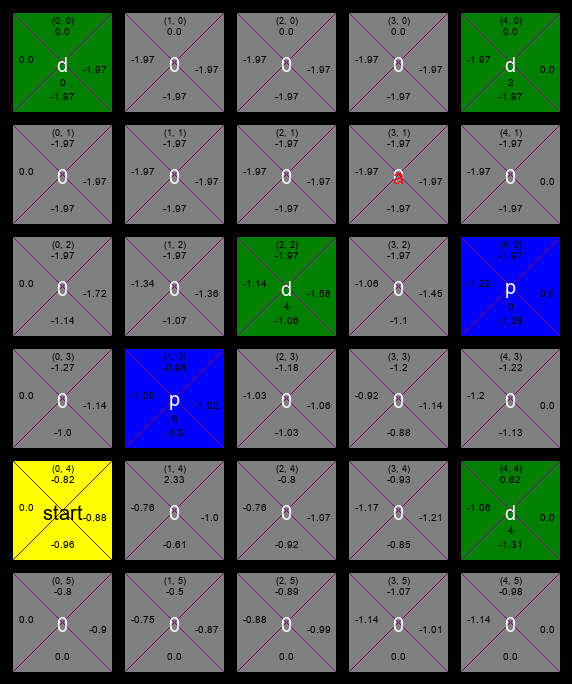
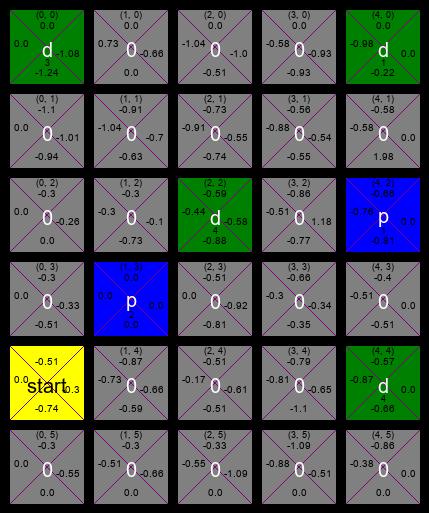
Add agent monitor

diff --git a/main.py b/main.py
@@ -5,6 +5,7 @@ from functions import *
 from vis_funcs import * 
 from Visualize.visualize import Visualize as vl
 from WorldProcessing.readWorld import ReadWorld
+import cv2 as cv
 
 FIRST_STEPS = 500
 SECOND_STEPS = 5500
@@ -24,6 +25,8 @@ has_block = False
 done = False
 h, w, world = ReadWorld().fill_world('testworld.txt')
 
+vis_objs = dict()
+
 # states, given x and y, returns state index for q_table
 # get index with states[x][y]
 states = getStates(w, h)
@@ -42,16 +45,28 @@ def main():
     global world
 
     # policy = "PRANDOM"
-    policy = "PEXPLOIT"
-    # policy = "PGREEDY"
+    # policy = "PEXPLOIT"
+    policy = "PGREEDY"
 
     # visualizing world in starting state
-    world_vl = vl()
-    world_vl.visualize_gen(h, w, world, 'world')
-    initWorld(h, w, world, world_vl, start_x, start_y)
+    vis_objs['world_vl'] = vl('world')
+    vis_objs['world_vl'].visualize_gen(h, w)
+    initWorld(h, w, world, vis_objs['world_vl'], start_x, start_y)
 
     # always use PRANDOM for first 500 steps
     steps1 = doSteps(FIRST_STEPS, 'PRANDOM')
+
+    vis_objs['q_table_no_block'] = vl('q_table_no_block')
+    vis_objs['q_table_no_block'].visualize_gen(h, w)
+    initQTableWorld(h, w, world, vis_objs['q_table_no_block'], start_x, start_y)
+    updateQTableWorld(h, w, world, vis_objs['q_table_no_block'], x, y)
+    fillQValues(h, w, q_table, vis_objs['q_table_no_block'], False)
+
+    vis_objs['q_table_with_block'] = vl('q_table_with_block')
+    vis_objs['q_table_with_block'].visualize_gen(h, w)
+    initQTableWorld(h, w, world, vis_objs['q_table_with_block'], start_x, start_y)
+    updateQTableWorld(h, w, world, vis_objs['q_table_with_block'], x, y)
+    fillQValues(h, w, q_table, vis_objs['q_table_with_block'], True)
 
     # print("q_table after 500 steps")
     # print(q_table)
@@ -65,19 +80,9 @@ def main():
     print(q_table)
     print("\ncomplete", steps1 + steps2, "steps")
 
-    updateWorld(h, w, world, world_vl)
+    updateWorld(h, w, world, vis_objs['world_vl'])
 
-    q_table_with_block = vl()
-    q_table_with_block.visualize_gen(h, w, world, 'q_table_with_block')
-    initQTableWorld(h, w, world, q_table_with_block, start_x, start_y)
-    updateQTableWorld(h, w, world, q_table_with_block, x, y)
-    fillQValues(h, w, q_table, q_table_with_block, True)
-
-    q_table_no_block = vl()
-    q_table_no_block.visualize_gen(h, w, world, 'q_table_no_block')
-    initQTableWorld(h, w, world, q_table_no_block, start_x, start_y)
-    updateQTableWorld(h, w, world, q_table_no_block, x, y)
-    fillQValues(h, w, q_table, q_table_no_block, False)
+    print(vis_objs['world_vl'], vis_objs['q_table_no_block'], vis_objs['q_table_with_block'])
 
 
 def applyAction(action):
@@ -104,7 +109,7 @@ def bestValidAction(state, actions):
     for action in actions:
         val = q_table[state][actionToIndex(action)]
         # if two actions have the same val, pick a random one
-        if (val == max_val): 
+        if (val == max_val):
             # 50% chance of not changing action
             if (random.uniform(0, 1) > 0.5): continue
             bestAction = action
@@ -123,7 +128,7 @@ def maxQ(state, actions):
 def exploitAction(state, valid_actions, epsilon):
     if (valid_actions[0] == "d"): return ["d", 13]
     if (valid_actions[0] == "p"): return ["p", 13]
-    if (random.uniform(0, 1) > epsilon): 
+    if (random.uniform(0, 1) > epsilon):
         return chooseRandomAction(valid_actions)
     return [bestValidAction(state, valid_actions), -1]
 
@@ -147,6 +152,7 @@ def doSteps(steps, policy):
 
         action = ''
         reward = -1
+        print(valid_actions)
 
         if (policy == 'PRANDOM'):
             action, reward = chooseRandomAction(valid_actions)
@@ -154,7 +160,7 @@ def doSteps(steps, policy):
             action, reward = exploitAction(state, valid_actions, epsilon)
         elif (policy == 'PGREEDY'):
             action, reward = greedyAction(state, valid_actions)
-
+        print(action)
         # print("action:", action)
 
         # has_block gets updated here
@@ -162,12 +168,18 @@ def doSteps(steps, policy):
 
         next_x, next_y = getNextCoords(action, world, x, y)
         if (coordsNotValid(next_x, next_y, w, h)): break
-        next_valid_actions = getValidActions(world, next_x, next_y, has_block)        
+        next_valid_actions = getValidActions(world, next_x, next_y, has_block)
         next_state = states[next_y][next_x]
         if (has_block): next_state += q_offset
 
-        # update qtable  
-        q_table[state][actionToIndex(action)] = round((1-alpha)*Q(state, action) + alpha*(reward + gamma*maxQ(next_state, next_valid_actions)), 2)
+        # update qtable
+        q_table[state][actionToIndex(action)] = \
+            round((1-alpha)*Q(state, action) + alpha*(reward + gamma*maxQ(next_state, next_valid_actions)), 2)
+
+        # keep track of prev state for step visualize part
+
+        prev_x = x
+        prev_y = y
 
         # 'move' to the next state
         x = next_x
@@ -188,16 +200,43 @@ def doSteps(steps, policy):
             print('q_table after:')
             print(q_table)
             print('-------------------------------------------------')
+            # reset episode steps
             count_steps = 1
+            # count episode
             episode += 1
             # break
 
         # break if the next x or y is not valid (should never happen)
         if (coordsNotValid(x, y, w, h)): break
+
+        # count episode steps
         count_steps += 1
-        # print('\n'*5)
-        # print(q_table)
-        # time.sleep(1)
+
+        # visualize each step
+        if steps != 500:
+            print('\n' * 5)
+            # print(q_table)
+            if has_block:
+                updateCell(h, w, q_table, world, vis_objs['q_table_no_block'],
+                           has_block, prev_x, prev_y, start_x, start_y)
+                updateCell(h, w, q_table, world, vis_objs['q_table_with_block'],
+                           has_block, prev_x, prev_y, start_x, start_y)
+                putAgent(h, w, q_table, world, vis_objs['q_table_with_block'], has_block, x, y, start_x, start_y)
+                img_b = cv.imread('q_table_with_block.png')
+                cv.destroyWindow('With no block')
+                cv.imshow('With block', img_b)
+                cv.waitKey(0)
+            else:
+                updateCell(h, w, q_table, world, vis_objs['q_table_with_block'],
+                           has_block, prev_x, prev_y, start_x, start_y)
+                updateCell(h, w, q_table, world, vis_objs['q_table_no_block'],
+                           has_block, prev_x, prev_y, start_x, start_y)
+                putAgent(h, w, q_table, world, vis_objs['q_table_no_block'], has_block, x, y, start_x, start_y)
+                img_nb = cv.imread('q_table_no_block.png')
+                cv.destroyWindow('With block')
+                cv.imshow('With no block', img_nb)
+                cv.waitKey(0)
+
     if step + 1 == SECOND_STEPS:
         print('episode ', episode, '| agent takes:', count_steps)
     return step+1

diff --git a/Visualize/visualize.py b/Visualize/visualize.py
@@ -1,59 +1,57 @@
 from PIL import Image, ImageDraw, ImageFont
-from WorldProcessing.readWorld import ReadWorld
 
-gap = 12
-block_size = 100
+gap = 9
+block_size = 75
 font_size = 20
-global file_name
+
 
 class Visualize:
-    def __init__(self):
-        pass
+    def __init__(self, name):
+        self.name = name
 
     # generate world image
-    def visualize_gen(self, no_block_h, no_block_w, world, name):
-        global file_name
-        file_name = name
-        img_h = no_block_h * (block_size + gap) + gap
-        img_w = no_block_w * (block_size + gap) + gap
+    def visualize_gen(self, num_cell_h, num_cell_w):
+        f_name = self.name
+        img_h = num_cell_h * (block_size + gap) + gap
+        img_w = num_cell_w * (block_size + gap) + gap
 
         img = Image.new('RGB', (img_w, img_h), color='gray')
         draw = ImageDraw.Draw(img)
 
         # row divider
-        for r in range(no_block_h + 1):
+        for r in range(num_cell_h + 1):
             start_p_r = (block_size + gap) * r + gap / 2
             draw.line([(0, start_p_r), (img_w, start_p_r)], fill=0, width=gap + 1)
         # col divider
-        for r in range(no_block_w + 1):
+        for r in range(num_cell_w + 1):
             start_p_c = (block_size + gap) * r + gap / 2
             draw.line([(start_p_c, 0), (start_p_c, img_h)], fill=0, width=gap + 1)
 
-        img.save('%s.png' % file_name)
+        img.save('%s.png' % f_name)
         print('Done initialize visual')
 
     def fill_block(self, coor=(0, 0), color='white'):
-        global file_name
+        f_name = self.name
         x = coor[0]
         y = coor[1]
         start_pixel_x = gap + x * (block_size + gap)
         start_pixel_y = gap + y * (block_size + gap)
-        with Image.open('%s.png' % file_name) as img:
+        with Image.open('%s.png' % f_name) as img:
             draw = ImageDraw.Draw(img)
             draw.rectangle((start_pixel_x + 1, start_pixel_y + 1,
                             start_pixel_x + block_size - 0.5, start_pixel_y + block_size - 0.5),
                            fill=color)
-            img.save('%s.png' % file_name)
+            img.save('%s.png' % f_name)
 
     def write_block(self, coor=(0, 0), txt='text', t_color='white',
                     pos='c', font_s=font_size, offset_u=0, offset_d=0, offset_l=0, offset_r=0):
-        global file_name
+        f_name = self.name
         x = coor[0]
         y = coor[1]
         start_pixel_x = gap + x * (block_size + gap)
         start_pixel_y = gap + y * (block_size + gap)
         font = ImageFont.truetype('arial.ttf', font_s)
-        with Image.open('%s.png' % file_name) as img:
+        with Image.open('%s.png' % f_name) as img:
             draw = ImageDraw.Draw(img)
             text_w, text_h = draw.textsize(txt, font)
             if pos == 'n':
@@ -72,18 +70,18 @@ class Visualize:
                 start_pixel_x += (block_size - text_w) / 2 + offset_r - offset_l
                 start_pixel_y += (block_size - text_h) / 2 - offset_u + offset_d
             draw.text((start_pixel_x + 1, start_pixel_y + 1), txt, fill=t_color, font=font)
-            img.save('%s.png' % file_name)
+            img.save('%s.png' % f_name)
 
     def put_x(self, coor=(0, 0), color='white'):
-        global file_name
+        f_name = self.name
         x = coor[0]
         y = coor[1]
         start_pixel_x = gap + x * (block_size + gap)
         start_pixel_y = gap + y * (block_size + gap)
-        with Image.open('%s.png' % file_name) as img:
+        with Image.open('%s.png' % f_name) as img:
             draw = ImageDraw.Draw(img)
             draw.line([(start_pixel_x + 1, start_pixel_y + 1),
-                       (start_pixel_x + 99, start_pixel_y + 99)], fill=color, width=0)
-            draw.line([(start_pixel_x + 1, start_pixel_y + 99),
-                       (start_pixel_x + 99, start_pixel_y + 1)], fill=color, width=0)
-        img.save('%s.png' % file_name)
+                       (start_pixel_x + block_size-1, start_pixel_y + block_size-1)], fill=color, width=0)
+            draw.line([(start_pixel_x + 1, start_pixel_y + block_size-1),
+                       (start_pixel_x + block_size-1, start_pixel_y + 1)], fill=color, width=0)
+        img.save('%s.png' % f_name)

diff --git a/vis_funcs.py b/vis_funcs.py
@@ -41,8 +41,7 @@ def updateQTableWorld(h, w, world, world_vl, x, y):
         for c in range(w):
             if world[(c, r)]['action'] == 'd' or world[(c, r)]['action'] == 'p':
                 world_vl.write_block(world[(c, r)]['coor'], str(world[(c, r)]['no_of_blocks']), 'black',
-                                     pos='s', font_s=10, offset_u=14)
-    world_vl.write_block(world[(x, y)]['coor'], 'a', 'red')
+                                     pos='s', font_s=9, offset_u=10)
 
 
 def fillQValues(h, w, q_table, world_vl, has_block):
@@ -56,6 +55,36 @@ def fillQValues(h, w, q_table, world_vl, has_block):
             for i, a in enumerate(action):
                 world_vl.write_block((r, c), str(q_table[state][i]), 'black',
                                      pos=a, font_s=10)
+
+
+def putAgent(h, w, q_table, world, world_vl, has_block, x, y, start_x, start_y):
+    updateCell(h, w, q_table, world, world_vl, has_block, x, y, start_x, start_y)
+    world_vl.write_block(world[(x, y)]['coor'], 'a', 'red')
+
+def updateCell(h, w, q_table, world, world_vl, has_block, prev_x, prev_y, start_x, start_y):
+    action = ['n', 's', 'e', 'w']
+    q_offset = 0
+    world_vl.fill_block(world[(prev_x, prev_y)]['coor'], 'gray')
+    if world[(prev_x, prev_y)]['action'] == 'd': world_vl.fill_block(world[(prev_x, prev_y)]['coor'], 'green')
+    if world[(prev_x, prev_y)]['action'] == 'p': world_vl.fill_block(world[(prev_x, prev_y)]['coor'], 'blue')
+    if (prev_y == start_y and prev_x == start_x):
+        world_vl.fill_block(world[(prev_x, prev_y)]['coor'], 'yellow')
+        world_vl.put_x((prev_x, prev_y), 'purple')
+        world_vl.write_block(world[(prev_x, prev_y)]['coor'], 'start', 'black')
+    else:
+        world_vl.put_x((prev_x, prev_y), 'purple')
+        world_vl.write_block(world[(prev_x, prev_y)]['coor'], world[(prev_x, prev_y)]['action'], 'white')
+        world_vl.write_block(world[(prev_x, prev_y)]['coor'],
+                             str(world[(prev_x, prev_y)]['coor']), 'black', 'n', 9, offset_u=10)
+    if world[(prev_x, prev_y)]['action'] == 'd' or world[(prev_x, prev_y)]['action'] == 'p':
+        world_vl.write_block(world[(prev_x, prev_y)]['coor'],
+                             str(world[(prev_x, prev_y)]['no_of_blocks']), 'black', pos='s', font_s=9, offset_u=10)
+    if (has_block == True):
+        q_offset = w * h
+    state = getStateFromCoords(prev_y, prev_x) + q_offset
+    for i, a in enumerate(action):
+        world_vl.write_block((prev_x, prev_y), str(q_table[state][i]), 'black',
+                             pos=a, font_s=10)
 
 
 

diff --git a/WorldProcessing/readWorld.py b/WorldProcessing/readWorld.py
@@ -28,11 +28,11 @@ class ReadWorld:
         world = dict()
         elements = ['coor', 'north', 'south', 'west', 'east', 'action', 'no_of_blocks']
 
-        no_block_h = len(general_world)
-        no_block_w = len(general_world[0])
+        num_cells_h = len(general_world)
+        num_cells_w = len(general_world[0])
 
-        for i in range(no_block_w):
-            for j in range(no_block_h):
+        for i in range(num_cells_w):
+            for j in range(num_cells_h):
                 world[(i, j)] = dict()
                 for e in elements:
                     if e == 'coor':
@@ -43,7 +43,7 @@ class ReadWorld:
                         else:
                             world[(i, j)][e] = (i, j - 1)
                     if e == 'south':
-                        if j == no_block_h - 1:
+                        if j == num_cells_h - 1:
                             world[(i, j)][e] = 'nan'
                         else:
                             world[(i, j)][e] = (i, j + 1)
@@ -53,7 +53,7 @@ class ReadWorld:
                         else:
                             world[(i, j)][e] = (i - 1, j)
                     if e == 'east':
-                        if i == no_block_w-1:
+                        if i == num_cells_w-1:
                             world[(i, j)][e] = 'nan'
                         else:
                             world[(i, j)][e] = (i + 1, j)
@@ -64,4 +64,4 @@ class ReadWorld:
                             world[(i, j)][e] = 8
                         else:
                             world[(i, j)][e] = 0
-        return no_block_h, no_block_w, world
+        return num_cells_h, num_cells_w, world
